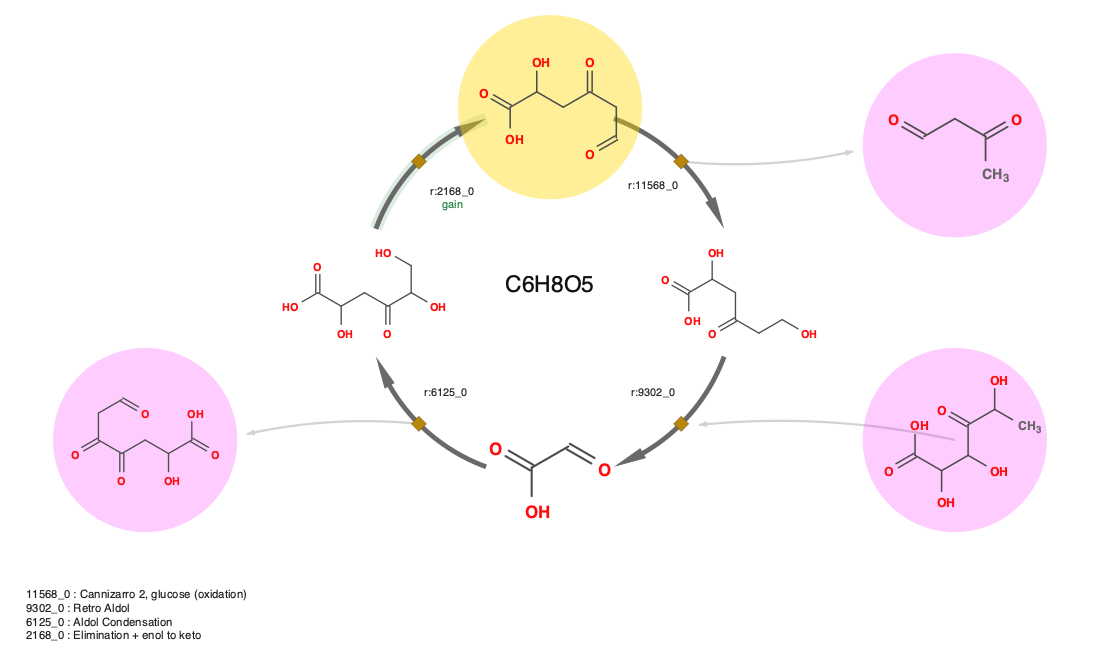
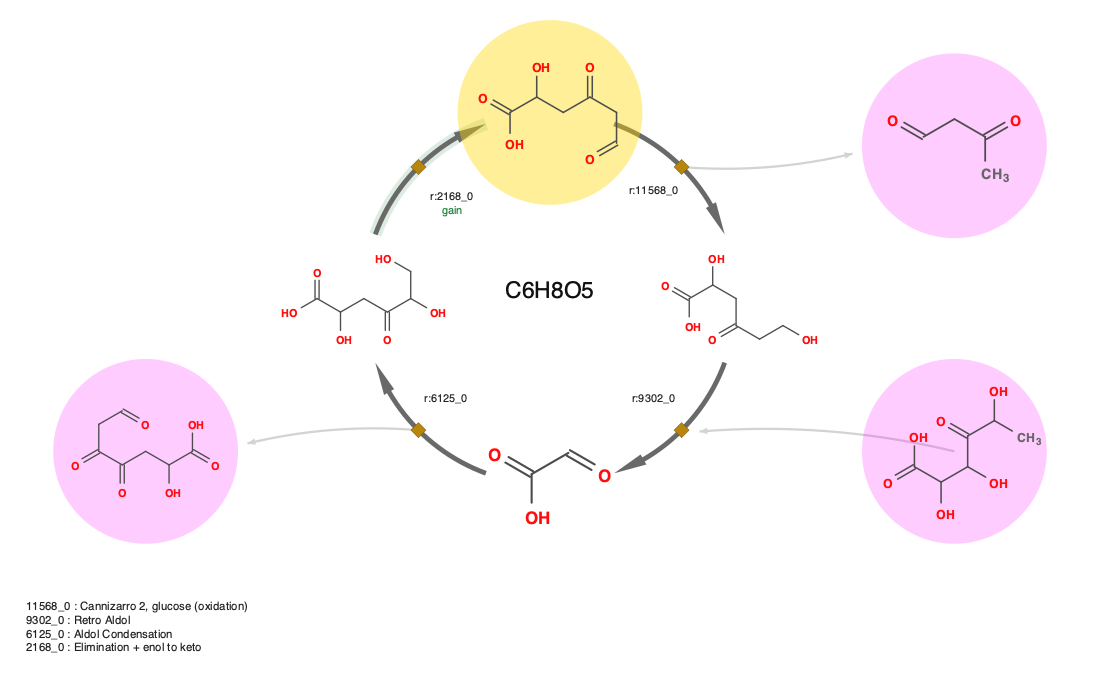
check the style being drawn, and shrink side spread on short rings
bench called collisions() with the default style while rendering another,
so it reported 0 overlaps for figures that did overlap. It now checks the
resolved style. Side-species spread is also capped against the per-step
angle, which is what was letting adjacent steps' discs collide on 5-rings.

diff --git a/src/autocycle/cli.py b/src/autocycle/cli.py
@@ -19,7 +19,8 @@ MODES = ("linear", "log", "multiples")
 
 
 def _style(a):
-    return get(a.style, backend=a.backend) if getattr(a, "backend", None) else a.style
+    """Always a Style, so the collision check tests what is actually drawn."""
+    return get(a.style, backend=a.backend) if getattr(a, "backend", None) else get(a.style)
 
 
 def _write(cycle, a) -> None:
@@ -193,6 +194,7 @@ def _bench_routes(a) -> int:
         f"{len(rels) if rels else 0} reactions"
     )
 
+    style = _style(a)
     routes = 0
     ok = 0
     failed: Counter[str] = Counter()
@@ -230,10 +232,10 @@ def _bench_routes(a) -> int:
                 else:
                     resolved += 1
             complete += pw.complete
-            if collisions(pw):
+            if collisions(pw, style):
                 collided += 1
             try:
-                svg = render(pw, style=_style(a))
+                svg = render(pw, style=style)
             except Exception as exc:  # noqa: BLE001 - a bench reports, never crashes
                 failed[type(exc).__name__] += 1
                 continue
@@ -286,6 +288,7 @@ def _bench(a) -> int:
         print(f"no CSVs under {a.dir}", file=sys.stderr)
         return 1
 
+    style = _style(a)
     rows = ok = skipped = 0
     rejected: Counter[str] = Counter()
     lengths: Counter[int] = Counter()
@@ -313,12 +316,12 @@ def _bench(a) -> int:
             lengths[len(cycle.nodes)] += 1
             feeder_hist[len(feeders(cycle))] += 1
             role_bad += bool(role_violations(cycle))
-            hits = collisions(cycle)
+            hits = collisions(cycle, style)
             if hits:
                 collided += 1
                 worst.append((hits[0][2], path.name, hits[0][:2]))
             try:
-                svg = render(cycle, style=_style(a))
+                svg = render(cycle, style=style)
             except Exception as exc:  # noqa: BLE001 - a bench must report, not crash
                 render_fail[type(exc).__name__] += 1
                 continue

diff --git a/src/autocycle/layout.py b/src/autocycle/layout.py
@@ -150,16 +150,25 @@ def side_anchor(
     return p
 
 
+def side_spread(ring: Ring, cap: float = 25.0) -> float:
+    """Half-angle between a step's in and out species, capped so neighbours clear."""
+    per_step = 2 * 360.0 / ring.n
+    return min(cap, per_step * 0.27)
+
+
 def side_points(
     ring: Ring, steps, avoid=None, out0: float = 1.5
 ) -> list[tuple[int, str, object, tuple[float, float]]]:
     """(step, side, species, anchor). Used by both the renderer and the bounds."""
     out = []
+    spread = side_spread(ring)
     for i, st in enumerate(steps):
         v = ring.verts[(2 * i + 1) % ring.n]
         for side, group in (("in", st.consumes), ("out", st.produces)):
             for k, sp in enumerate(group):
-                out.append((i, side, sp, side_anchor(ring, v, side, out0 + 1.9 * k, avoid=avoid)))
+                out.append(
+                    (i, side, sp, side_anchor(ring, v, side, out0 + 1.9 * k, spread, avoid=avoid))
+                )
     return out
 
 
